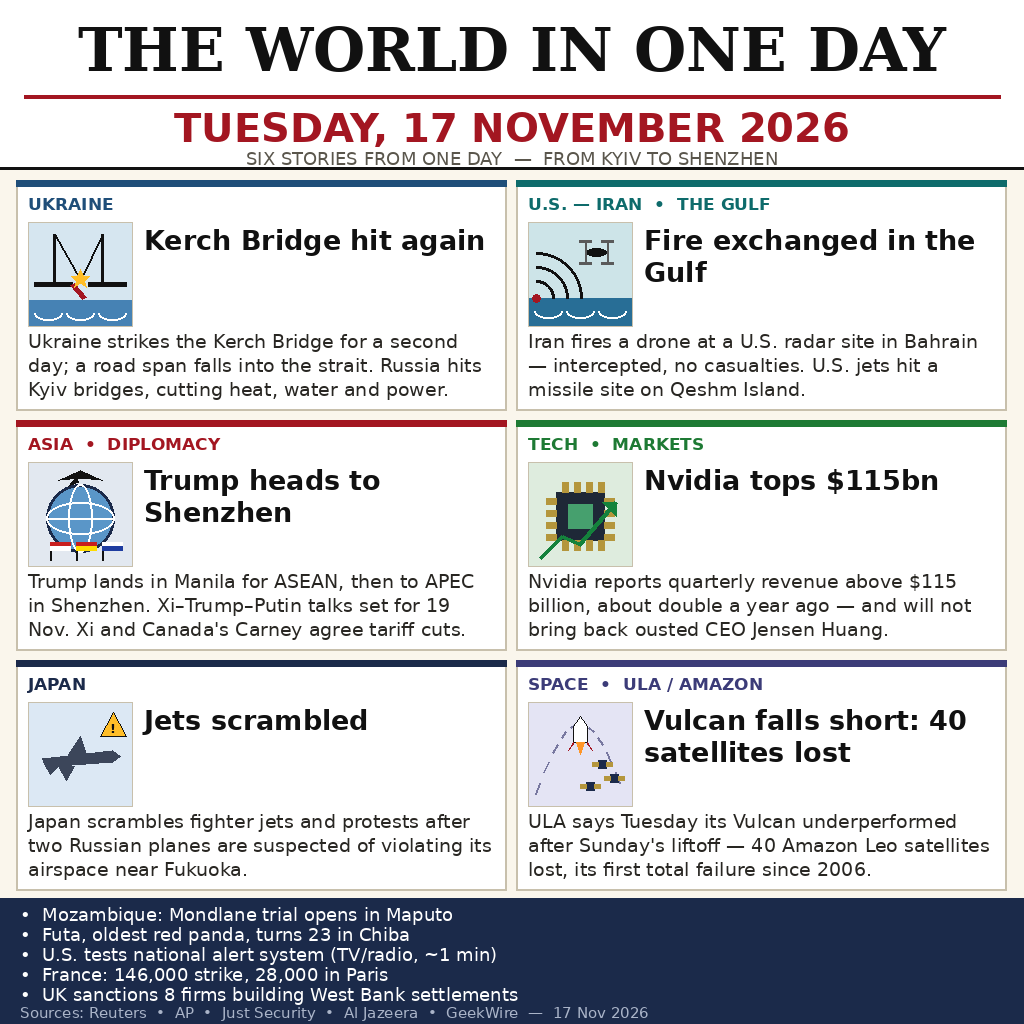
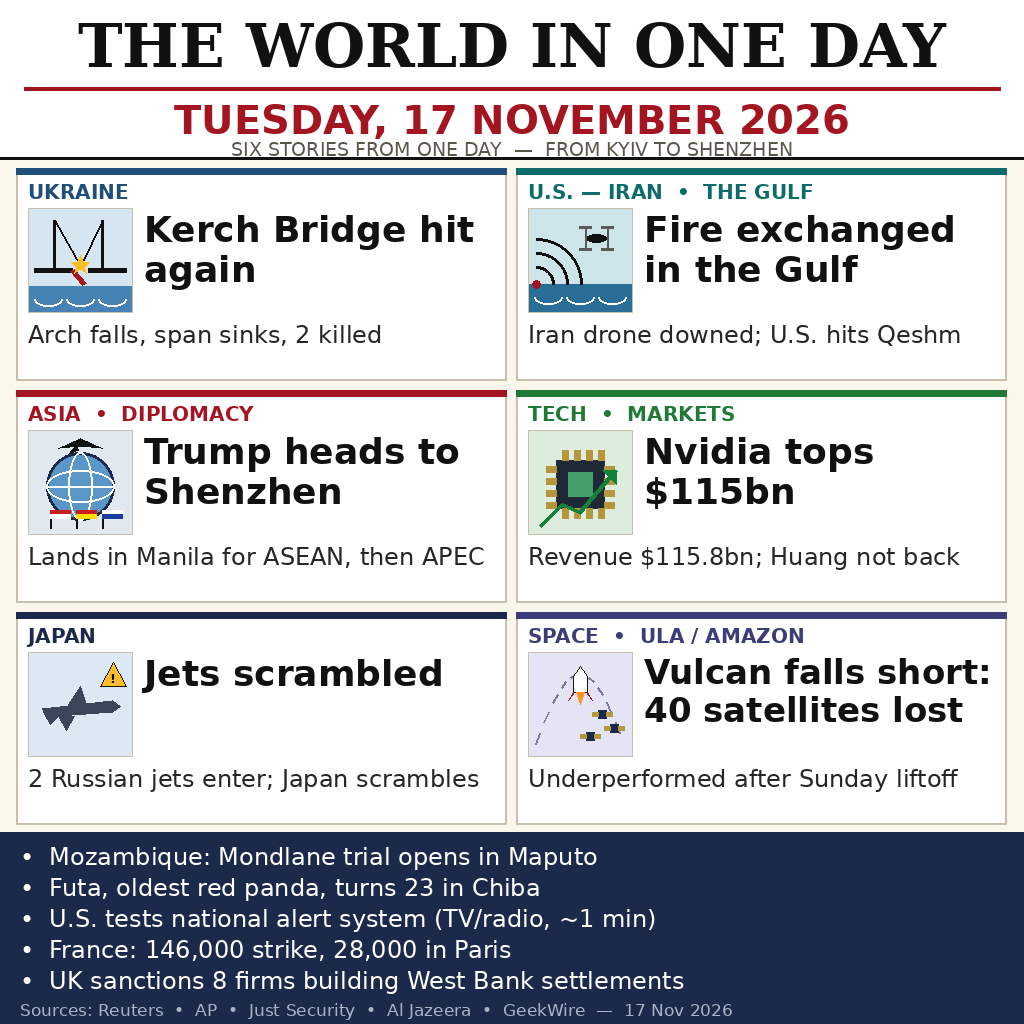
Redesign for 300px legibility: bigger headlines, one-line captions, bigger footer

diff --git a/README.md b/README.md
@@ -8,7 +8,7 @@ One image summing up the world's news of Tuesday, 17 November 2026: the Kerch Br
 
 ```sh
 mkdir -p out && MAKEFUN_OUTPUT_DIR=out node main.ts
-# writes out/entry.png (1024x1024 PNG, 133,882 bytes)
+# writes out/entry.png (1024x1024 PNG, 128,487 bytes)
 ```
 
 `main.ts` runs on Node 22, standard library only, no network. It resolves `entry.png` against its own directory, never the working directory, and writes byte-identical output on every run.
